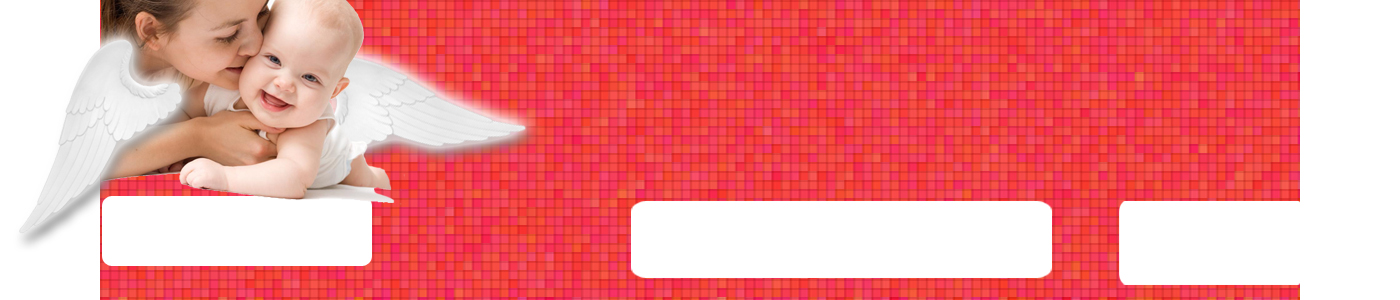
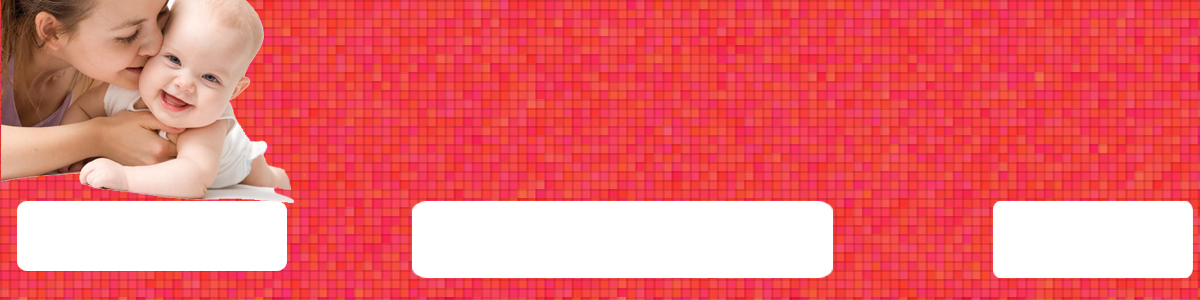
小修改，增加waterfall页面

diff --git a/style.css b/style.css
@@ -98,8 +98,6 @@ h1, h2, h3, h4, h5, h6 {
 
 .bigBanner{
 	width: 1200px;
-	padding-left: 100px;
-	padding-right: 100px;
 	padding-top: 200px;
 	height: 100px;
 	background: url(images/topbanner.jpg);
@@ -370,7 +368,7 @@ background:url(images/bg.gif) no-repeat -14px -6px; right:-1px; bottom:-1px;
 	margin: 0 0px 8px 0;
 }
 #articleRight {
-	width: 770px;
+	width: 970px;
 	margin-bottom: 8px;
 }
 .w574 {
@@ -384,7 +382,7 @@ background:url(images/bg.gif) no-repeat -14px -6px; right:-1px; bottom:-1px;
 }
 /* ====================header==================== */
 .topright {
-	width: 780px;
+	width: 960px;
 	height: 128px;
 }
 .topnav {
@@ -1175,7 +1173,7 @@ height:150px; background:url(images/brandsbg1.gif) repeat-x 0 0; border:#09F sol
 	border: none;
 }
 .goodstxtbox {
-	width: 450px;
+	width: 550px;
 }
 .goodName {
 	border-bottom: 2px solid #ccc;
@@ -2196,7 +2194,7 @@ a:hover {
 	width: 150px;
 	height: 50px;
 	line-height: 20px;
-	margin-top: 6px;
+	margin-left: 100px;
 	padding:4px;
 	background: url(images/cartinfo.gif) no-repeat left top;
 	overflow: hidden;
@@ -2242,6 +2240,8 @@ a:hover {
 .logo {
 	width: 210px;
 	height: 80px;
+	padding-left: 20px;
+	margin-top: 4px;
 	float: left;
 }
 .main_nav {
